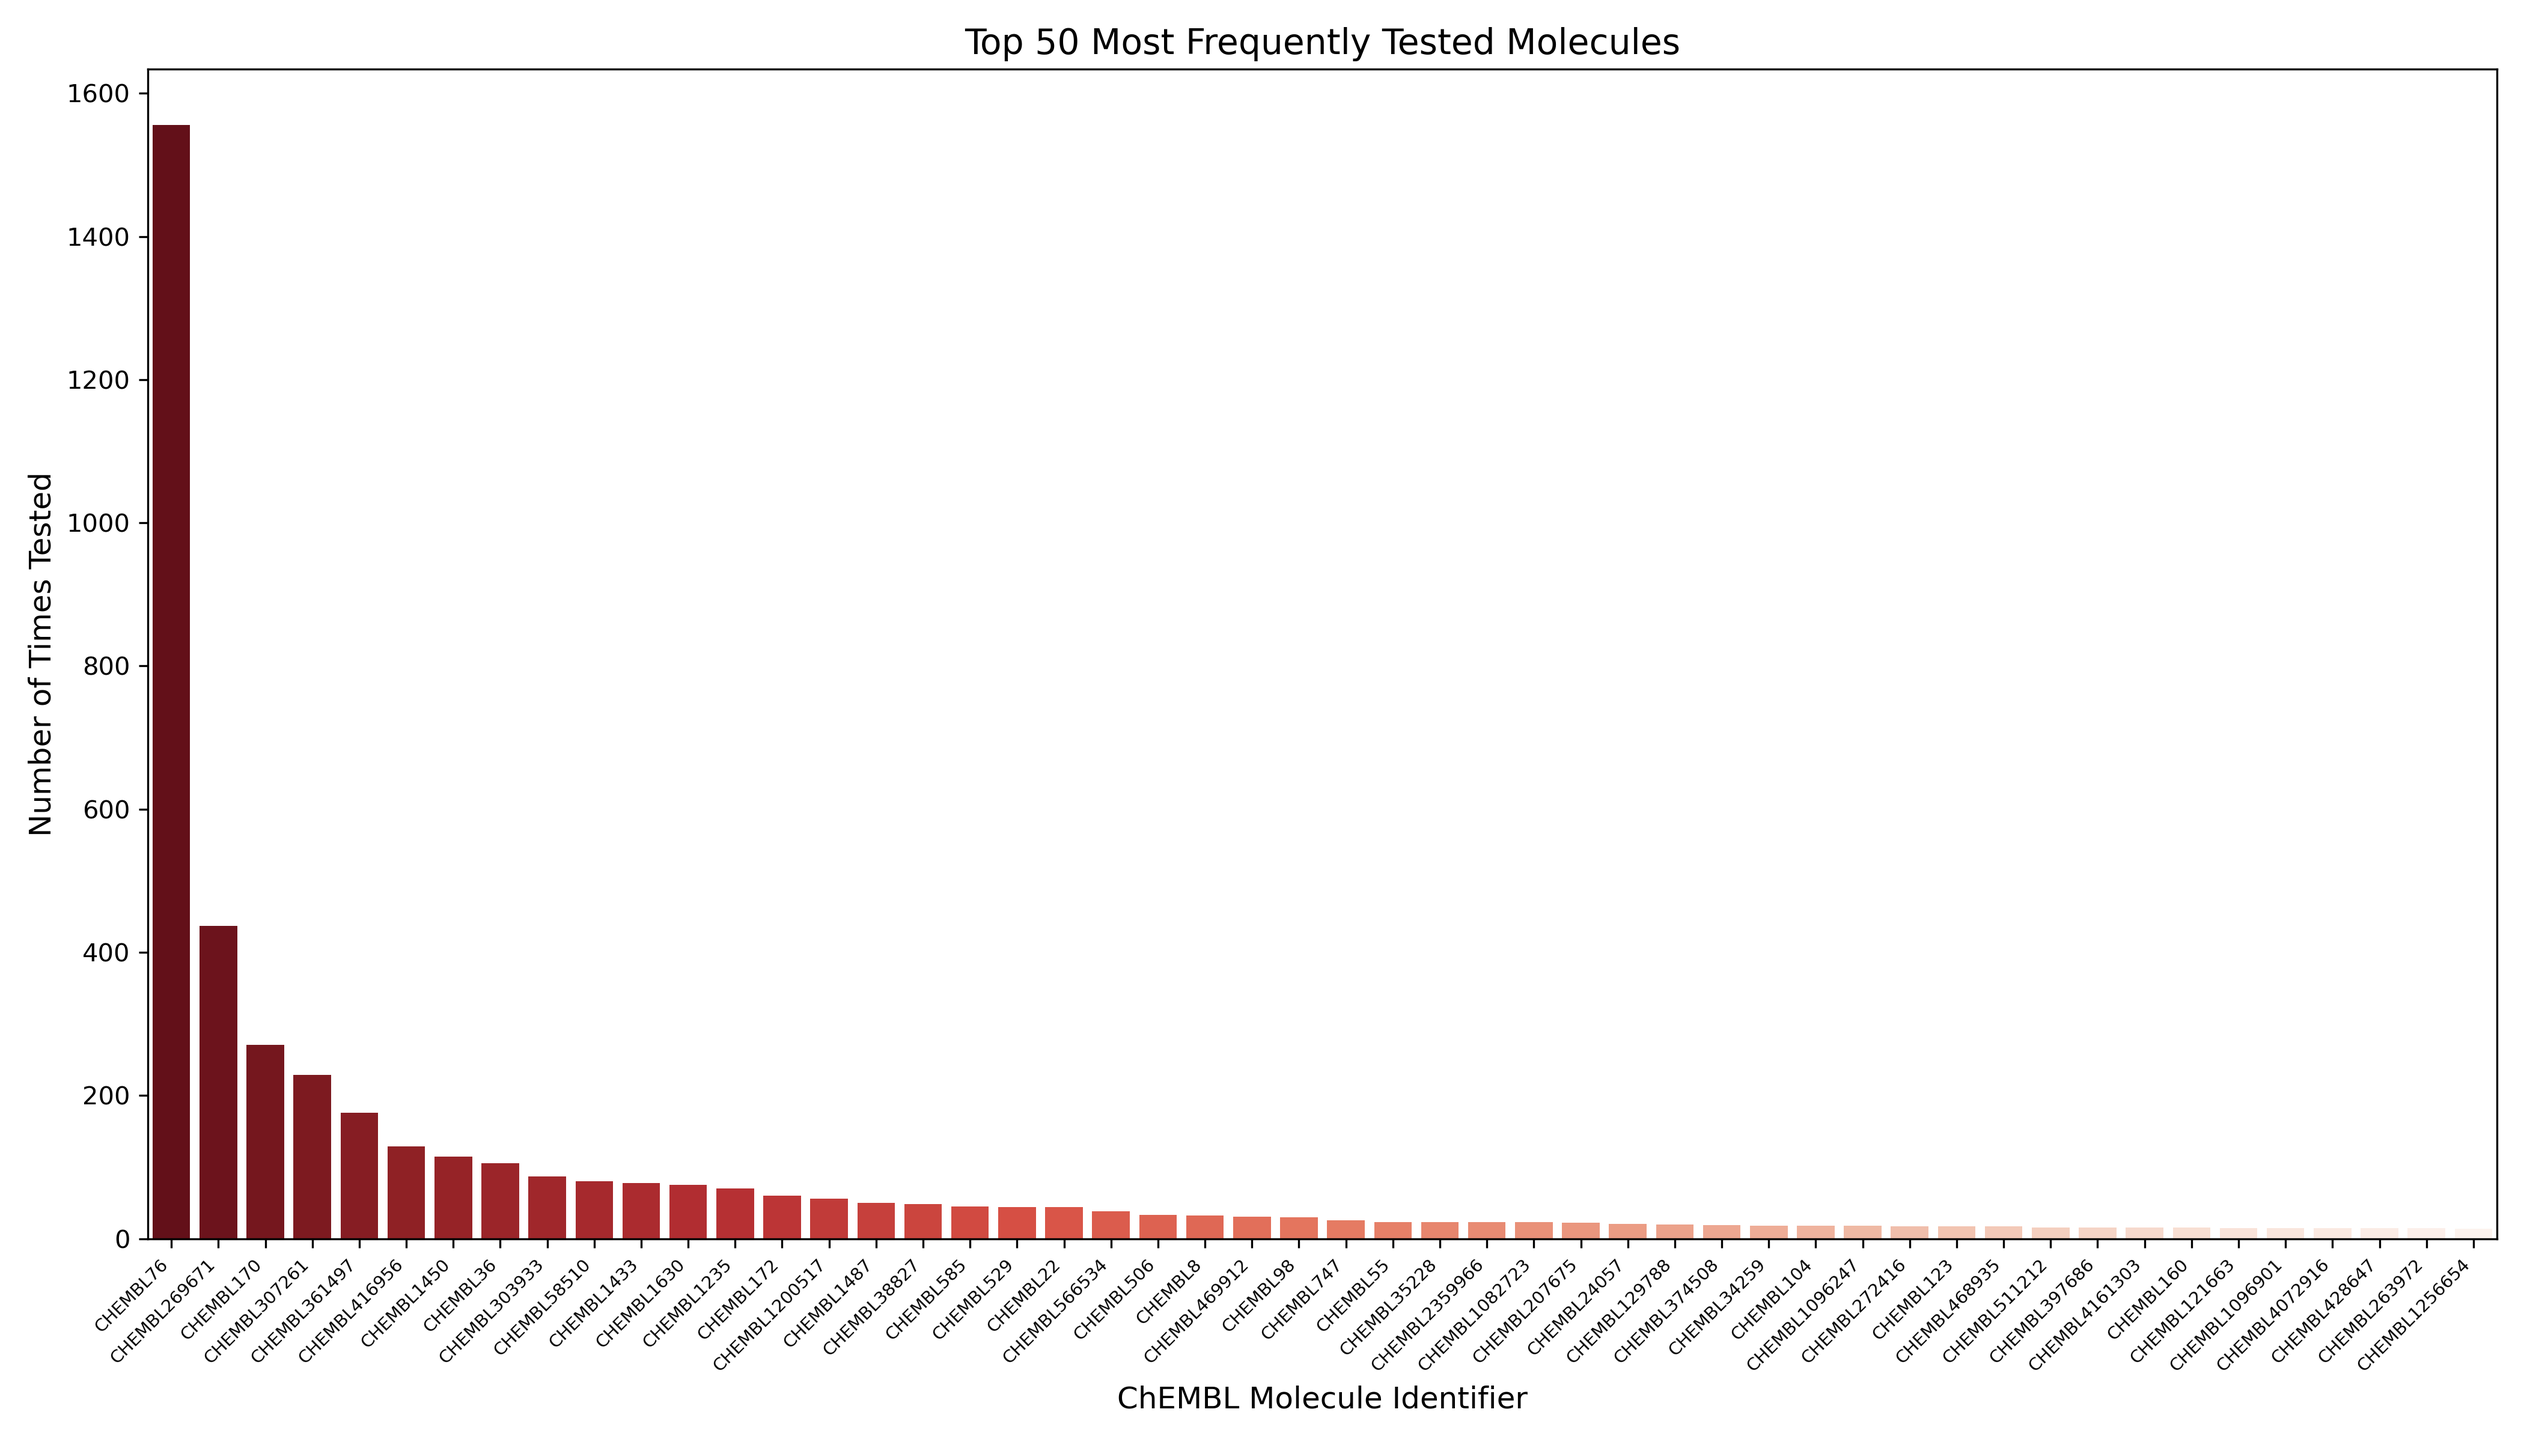
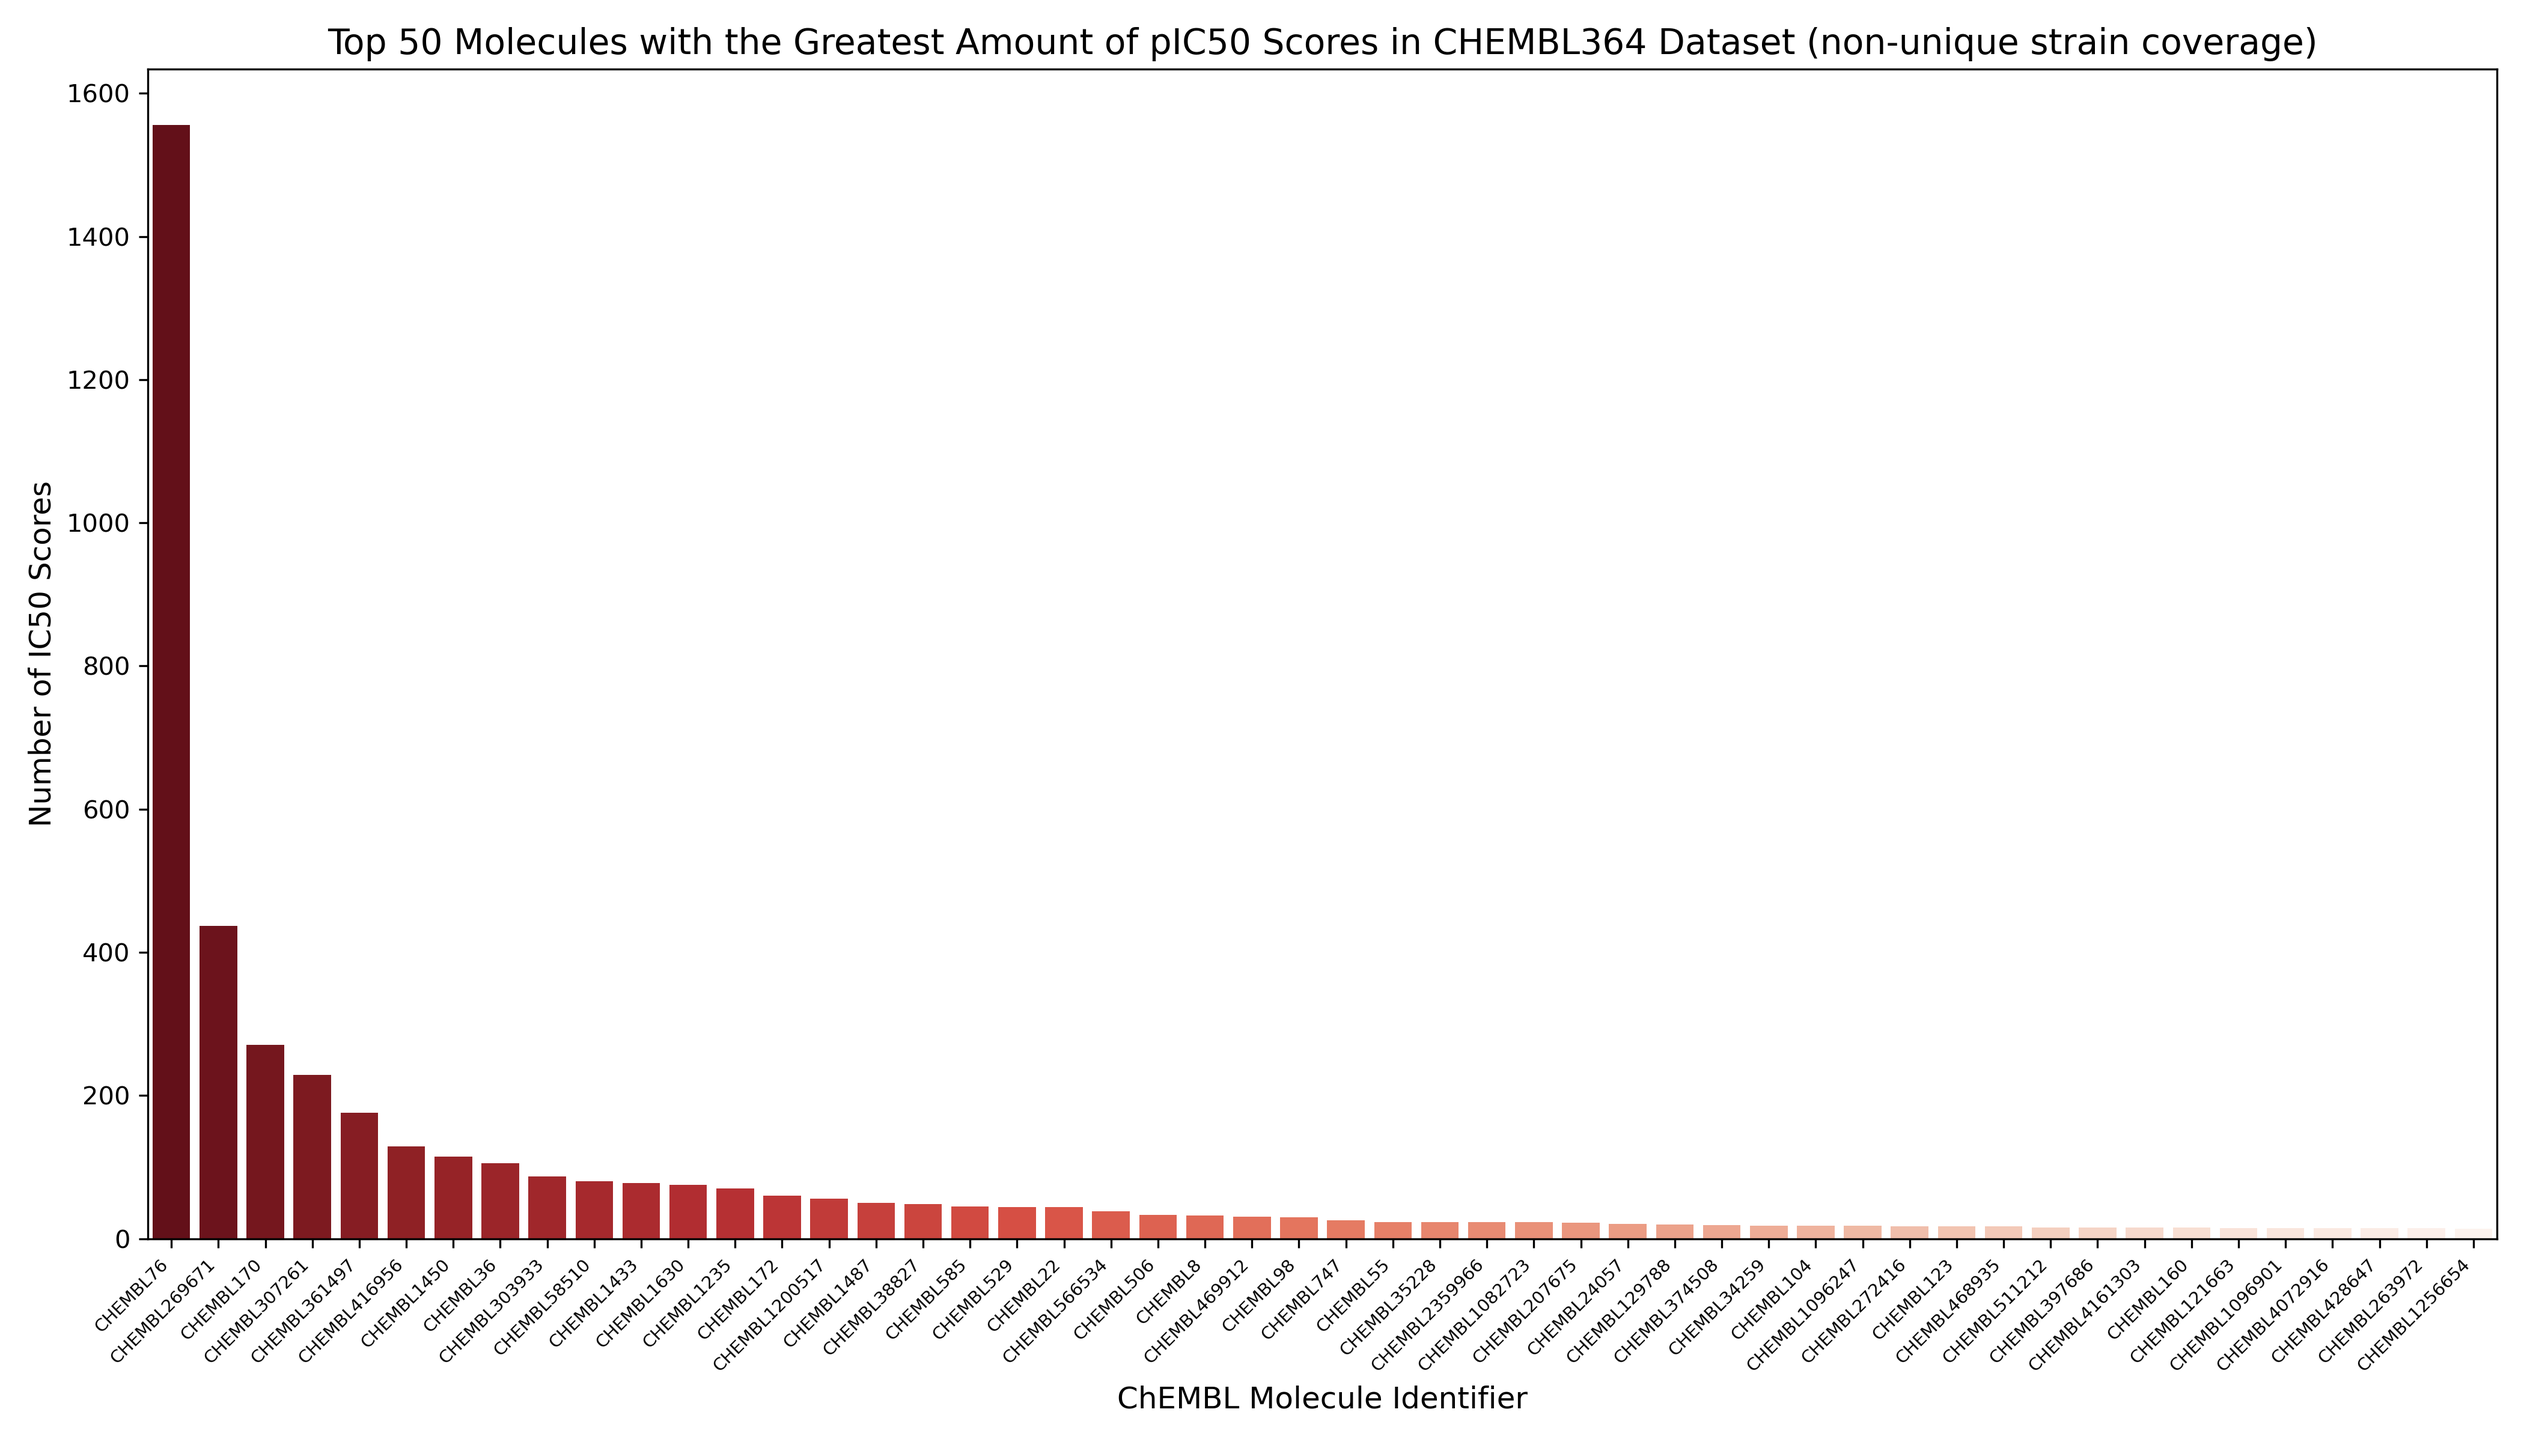
updating strain_moelcule_distribution_histogram visuals and titles

diff --git a/p1_preprocessing/3 - Graphing data/chembl_distribution_histograms/strain_molecule_distributions_histograms.py b/p1_preprocessing/3 - Graphing data/chembl_distribution_histograms/strain_molecule_distributions_histograms.py
@@ -1,5 +1,9 @@
-''' Description: This script generates a CSV file containing the counts of unique molecules and their occurrences
-in a dataset, specifically focusing on the "Molecule_ChEMBL_ID" column.
+''' Description: This script generates a set of histograms visualizing the distribution of strain and molecule counts.
+This script:
+1) Generates histograms for the top 50 strains with most amount of pIC50 scores (non-unique molecules).
+2) Generates a histogram for the top 50 molecules with most amount of pIC50 score (non-unique strain coverage)
+2) Creates a histogram for the top 50 molecules based on unique strain coverage.
+
 Preconditions:
 1) "strain_counts.csv" - generated from strain_counts.py
 2) "molecule_counts.csv" - generated from molecule_counts.py
@@ -28,8 +32,8 @@ sns.barplot(data=top_strains, x='Strain', y='Count', palette=strain_palette)
 # Customizations
 plt.xticks(rotation=45, ha='right', fontsize=9)
 plt.xlabel('Strain Identifier', fontsize=12)
-plt.ylabel('Number of Times Tested', fontsize=12)
-plt.title('Top 50 Most Frequently Tested Strains', fontsize=14)
+plt.ylabel('Number of pIC50 Scores', fontsize=12)
+plt.title('Top 50 Strains with the Greatest Amount of pIC50 Scores in CHEMBL364 Dataset (non-unique molecules)', fontsize=14)
 plt.tight_layout()
 
 # Save and display
@@ -53,8 +57,8 @@ sns.barplot(data=top_molecules, x='Molecule', y='Count', palette=molecule_palett
 # Customizations
 plt.xticks(rotation=45, ha='right', fontsize=7)
 plt.xlabel('ChEMBL Molecule Identifier', fontsize=12)
-plt.ylabel('Number of Times Tested', fontsize=12)
-plt.title('Top 50 Most Frequently Tested Molecules', fontsize=14)
+plt.ylabel('Number of IC50 Scores', fontsize=12)
+plt.title('Top 50 Molecules with the Greatest Amount of pIC50 Scores in CHEMBL364 Dataset (non-unique strain coverage)', fontsize=14)
 plt.tight_layout()
 
 # Save and display
@@ -84,7 +88,7 @@ sns.barplot(data=unique_strain_counts, x='Molecule', y='UniqueStrains', palette=
 plt.xticks(rotation=45, ha='right', fontsize=7)
 plt.xlabel('ChEMBL Molecule Identifier', fontsize=12)
 plt.ylabel('Number of Unique Strains Tested', fontsize=12)
-plt.title('Top 50 Molecules by Most Unique Strain Coverage', fontsize=14)
+plt.title('Top 50 Molecules by Most Unique Strain Coverage in CHEMBL364 Dataset', fontsize=14)
 plt.tight_layout()
 
 # Save and display
